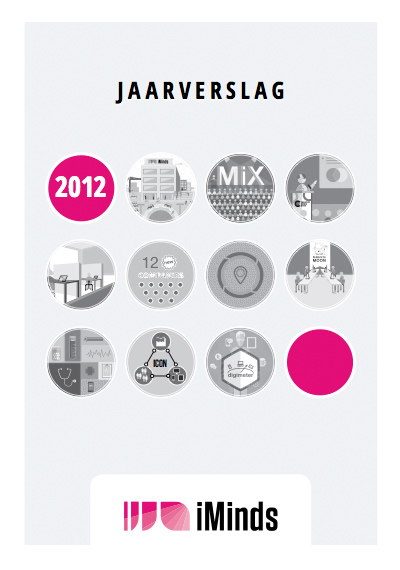
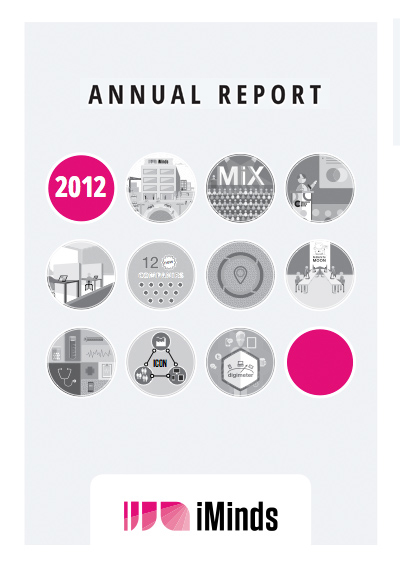
first time adjusts

Changed region(s): [[0.21, 0.1193, 0.81, 0.1789]]

diff --git a/project/template/home_nl.html b/project/template/home_nl.html
@@ -65,15 +65,14 @@
         
             <aside class="text push_fourteen twenty-four columns">
 
-                <p>2012 zal te boek staan als het eerste ‘iMinds’ jaar. Onze naamswijziging weerspiegelt de evolutie die we als organisatie doormaakten, en de vele nieuwe projecten die we lanceerden. De nieuwe naam reflecteert daarnaast onze ambitie om als organisatie, samen met onze partners, het basisonderzoek in digitale technologie in Vlaanderen te stimuleren en naar de markt te brengen. En onze regio op die manier internationaal te profileren. Sinds onze oprichting in 2004 werden reeds 81 ICON onderzoeksprojecten gerealiseerd. Ik wil al onze partners, onderzoekers en medewerkers die dit mogelijk maakten, hiervoor bij deze nog eens uitdrukkelijk bedanken.
-We hebben dan wel een nieuwe naam, onze basisfilosofie blijft onveranderd. iMinds wil met digitale technologie een bijdrage leveren aan maatschappij en economie, en we richten ons daarbij op die sectoren waarin ICT maximale impact heeft of kan hebben. De oprichting in 2012 van MiX - ons media innovatie centrum - in nauwe samenwerking met de mediasector, is hiervan een voorbeeld. Maar ook de gezondheidssector, de maakindustrie, de mobiliteits- en energiesector krijgen onze volle aandacht.
-2012 was ook het jaar waarin we onze activiteiten ter ondersteuning van ondernemerschap sterk ontwikkelden. Innovatie ontstaat immers niet enkel uit samenwerking met gevestigde spelers, maar ook vanuit de talrijke startende ondernemers die nieuwe ideeën naar de markt brengen. Ik ben dan ook erg verheugd om op dit vlak in Vlaanderen een sterke dynamiek op gang te zien komen.
-iMinds kende in 2012 tot slot een jaar van groei, waarin we onze organisatie versterkten met nieuw talent. Hierdoor zijn wij helemaal klaar voor de uitdagingen die de komende jaren ons ongetwijfeld zullen brengen.</p>
+                <p>2012 zal te boek staan als het eerste ‘iMinds’ jaar. Onze naamswijziging weerspiegelt de evolutie die we als organisatie doormaakten, en de vele nieuwe projecten die we lanceerden. De nieuwe naam reflecteert daarnaast onze ambitie om als organisatie, samen met onze partners, het basisonderzoek in digitale technologie in Vlaanderen te stimuleren en naar de markt te brengen. En onze regio op die manier internationaal te profileren. Sinds onze oprichting in 2004 werden reeds 81 ICON onderzoeksprojecten gerealiseerd. Ik wil al onze partners, onderzoekers en medewerkers die dit mogelijk maakten, hiervoor bij deze nog eens uitdrukkelijk bedanken. We hebben dan wel een nieuwe naam, onze basisfilosofie blijft onveranderd.</p>
+                <br>
+                <p style="margin-top: -1em">iMinds wil met digitale technologie een bijdrage leveren aan maatschappij en economie, en we richten ons daarbij op die sectoren waarin ICT maximale impact heeft of kan hebben. De oprichting in 2012 van MiX - ons media innovatie centrum - in nauwe samenwerking met de mediasector, is hiervan een voorbeeld. Maar ook de gezondheidssector, de maakindustrie, de mobiliteits- en energiesector krijgen onze volle aandacht. 2012 was ook het jaar waarin we onze activiteiten ter ondersteuning van ondernemerschap sterk ontwikkelden. Innovatie ontstaat immers niet enkel uit samenwerking met gevestigde spelers, maar ook vanuit de talrijke startende ondernemers die nieuwe ideeën naar de markt brengen. Ik ben dan ook erg verheugd om op dit vlak in Vlaanderen een sterke dynamiek op gang te zien komen. iMinds kende in 2012 tot slot een jaar van groei, waarin we onze organisatie versterkten met nieuw talent. Hierdoor zijn wij helemaal klaar voor de uitdagingen die de komende jaren ons ongetwijfeld zullen brengen.</p>
                 
                 <!-- Button: Download -->
                 <button class="download tt-wrapper twelve columns omega">
                     <div>
-                        <a href="https://s3.amazonaws.com/app-annual-report/pdf/Annual_Report_2012_EN.pdf" target="_blank">
+                        <a href="https://s3.amazonaws.com/app-annual-report/pdf/Jaarverslag_2012_NL.pdf" target="_blank">
                             downloaden printversie (10.7mb)
                             <span><img src="{{ STATIC_URL }}img/report-screen_nl.jpg" /></span>
                         </a>

diff --git a/project/template/home.html b/project/template/home.html
@@ -65,12 +65,14 @@
         
             <aside class="text push_fourteen twenty-four columns">
 
-                <p>Once again, 2012 was a busy year for iMinds. Our name change reflects both our evolution as an organization and the many new projects that we have launched. The new name also mirrors our ambition to stimulate and market basic digital technology research throughout Flanders together with our partners. In this way, we intend to gain international recognition for our region. I particularly want to take this opportunity to thank all of our partners, researchers, and employees that helped us along the way. Our basic philosophy remains unchanged. We will continue to use digital technology to contribute to society and the economy as a whole. This is especially true in those sectors in which ICT already has had or can yet have the greatest impact. A perfect example is MiX. We launched this media innovation center together with the media sector in 2012. Other sectors that get our close attention are the health, mobility, energy, and manufacturing industries. Since our inception, we have already realized 81 ICON research projects. In 2012, we also saw a strong rise in our incubation activities. Innovation stems not only from collaboration with established players, but also from the many start-ups that bring new ideas and products to the marketplace. I am delighted to see such a strong dynamic in this domain rising throughout Flanders. iMinds not only chose to change its name in 2012. We also renewed and strengthened our organization with new talent, to ready ourselves for the challenges that await us in 2013 and beyond.</p>
+                <p>Once again, 2012 was a busy year for iMinds. Our name change reflects both our evolution as an organization and the many new projects that we have launched. The new name also mirrors our ambition to stimulate and market basic digital technology research throughout Flanders together with our partners. In this way, we intend to gain international recognition for our region. I particularly want to take this opportunity to thank all of our partners, researchers, and employees that helped us along the way. Our basic philosophy remains unchanged. We will continue to use digital technology to contribute to society and the economy as a whole.</p>
+                <br>
+                <p style="margin-top: -1em">This is especially true in those sectors in which ICT already has had or can yet have the greatest impact. A perfect example is MiX. We launched this media innovation center together with the media sector in 2012. Other sectors that get our close attention are the health, mobility, energy, and manufacturing industries. Since our inception, we have already realized 81 ICON research projects. In 2012, we also saw a strong rise in our incubation activities. Innovation stems not only from collaboration with established players, but also from the many start-ups that bring new ideas and products to the marketplace. I am delighted to see such a strong dynamic in this domain rising throughout Flanders. iMinds not only chose to change its name in 2012. We also renewed and strengthened our organization with new talent, to ready ourselves for the challenges that await us in 2013 and beyond.</p>
                 
                 <!-- Button: Download -->
                 <button class="download tt-wrapper twelve columns omega">
                     <div>
-                        <a href="{{ report.pdf.url }}" target="_blank">
+                        <a href="https://s3.amazonaws.com/app-annual-report/pdf/Annual_Report_2012_EN.pdf" target="_blank">
                             download printable version (12.6mb)
                             <span><img src="{{ STATIC_URL }}img/report-screen_en.jpg" /></span>
                         </a>

diff --git a/project/static/css/months/base.css b/project/static/css/months/base.css
@@ -177,7 +177,7 @@ section[role="odd"] aside.content .text,
 section[role="even"] aside.content .text {
     background: none;
     height: 270px;
-    color: @black;
+    color: #000;
     padding: 10px 30px 30px 30px;
     -webkit-appearance: none;
 -webkit-transition: all 0.2s linear;
